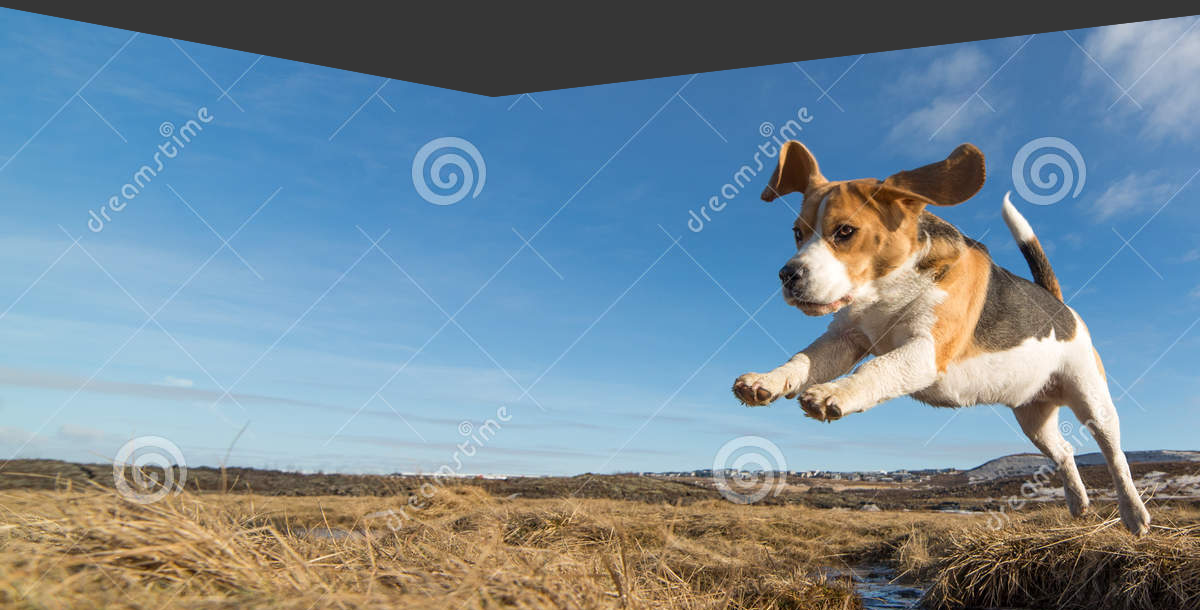
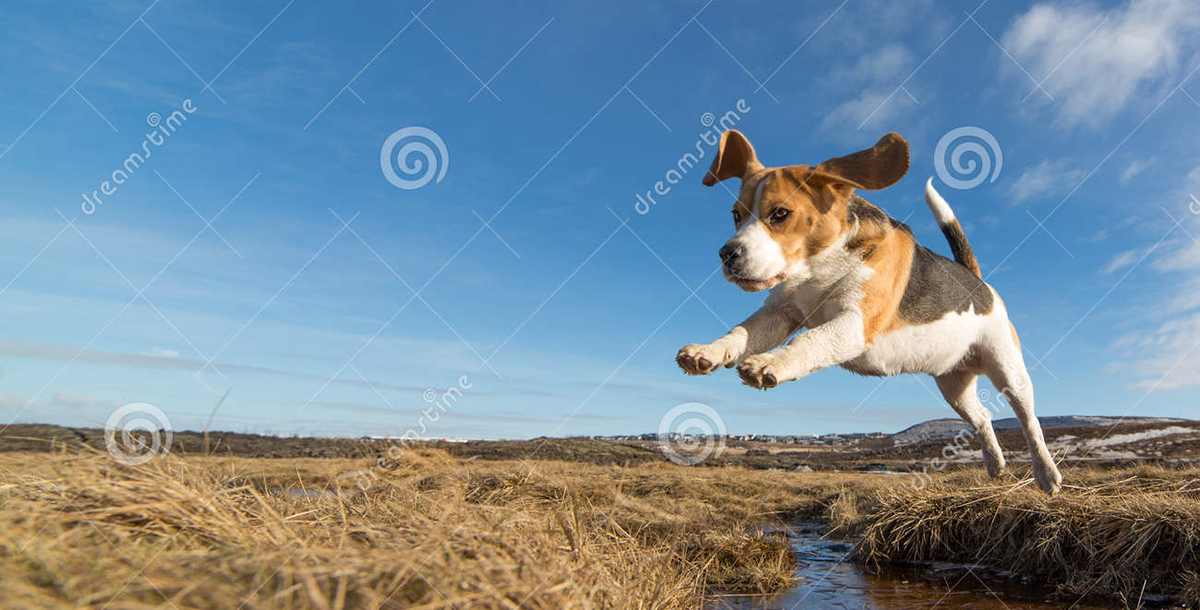
Top level navigation refactored

diff --git a/website/css/firm-beliefs.css b/website/css/firm-beliefs.css
@@ -20,9 +20,7 @@ body {
   width: 100%;
   max-width: 1200px;
   margin: 0 auto;
-  background-color: #FFFFFF;
-  overflow: hidden;
-  height: 3000px; }
+  overflow: hidden; }
 
 p {
   padding: 0 0 12px 0;
@@ -35,7 +33,10 @@ p {
 
 .header {
   background-color: #363636;
-  color: #9e9e95; }
+  color: #9e9e95;
+  content: "";
+  clear: both;
+  display: block; }
   .header .container {
     position: relative; }
 
@@ -102,10 +103,10 @@ h1 {
     .main-nav-container {
       right: -310px; } }
   .main-nav-container.animated {
-    -webkit-transition: all 0.25s;
-    -moz-transition: all 0.25s;
-    -o-transition: all 0.25s;
-    transition: all 0.25s; }
+    -webkit-transition: all 0.5s;
+    -moz-transition: all 0.5s;
+    -o-transition: all 0.5s;
+    transition: all 0.5s; }
   .main-nav-container.open {
     right: -15px; }
     @media (max-width: 1200px) {
@@ -155,26 +156,35 @@ h1 {
       z-index: 2; }
   .hero img {
     width: 100%; }
+  .hero .hero-angle {
+    position: absolute;
+    top: 0;
+    left: 0;
+    width: 100%;
+    height: 93px;
+    background: url("../images/hero-angle.png") top center no-repeat;
+    z-index: 3; }
 
 .top-level-nav {
-  padding: 30px 0 60px 0;
-  background: url("../images/bg-top-level-nav.png") bottom left no-repeat #F48220;
-  text-align: center;
-  float: left; }
+  padding: 0 0 83px 0;
+  background: url("../images/bg-top-level-nav.png") bottom center no-repeat;
+  text-align: center; }
   .top-level-nav .more-link {
     display: block; }
   .top-level-nav ul {
-    float: left; }
+    background-color: #F48220;
+    padding: 30px 0 10px 0; }
   .top-level-nav li {
     position: relative;
-    float: left;
-    width: 33.3333337%;
+    display: inline-block;
+    width: 33%;
     padding: 30px;
     color: #363636;
     -webkit-transition: all 0.5s;
     -moz-transition: all 0.5s;
     -o-transition: all 0.5s;
-    transition: all 0.5s; }
+    transition: all 0.5s;
+    vertical-align: top; }
     .top-level-nav li .pointer {
       width: 0;
       height: 0;
@@ -224,3 +234,8 @@ h1 {
     -o-transition: all 0.5s;
     transition: all 0.5s;
     display: inline-block; }
+
+.the-team {
+  background-color: #ebebeb;
+  height: 400px;
+  margin-top: -85px; }

diff --git a/source/scss/firm-beliefs.scss b/source/scss/firm-beliefs.scss
@@ -6,6 +6,7 @@ $width-lg: 1200px;
 $clr-primary-dark:      #363636;
 $clr-primary-orange:    #F48220;
 $clr-primary-grey:      #9e9e95;
+$clr-primary-light:     #ebebeb;
 
 @import "mixins";
 @import "fonts";
@@ -29,9 +30,7 @@ body {
     width: 100%;
     max-width: 1200px;
     margin: 0 auto;
-    background-color: #FFFFFF;
     overflow: hidden;
-    height: 3000px;
 }
 
 p {
@@ -49,6 +48,7 @@ p {
 .header {
     background-color: $clr-primary-dark;
     color: $clr-primary-grey;
+    @include clearfix();
 
     .container {
         position: relative;
@@ -139,7 +139,7 @@ h1 {
     }
 
     &.animated {
-        @include transitions(0.25s);
+        @include transitions(0.5s);
     }
 
     &.open {
@@ -210,13 +210,22 @@ h1 {
     img {
         width: 100%;
     }
+
+    .hero-angle {
+        position: absolute;
+        top: 0;
+        left: 0;
+        width: 100%;
+        height: 93px;
+        background: url("../images/hero-angle.png") top center no-repeat;
+        z-index: 3;
+    }
 }
 
 .top-level-nav {
-    padding: 30px 0 60px 0;
-    background: url("../images/bg-top-level-nav.png") bottom left no-repeat $clr-primary-orange;
+    padding: 0 0 83px 0;
+    background: url("../images/bg-top-level-nav.png") bottom center no-repeat;
     text-align: center;
-    float: left;
 
     .more-link {
         display: block;
@@ -224,16 +233,18 @@ h1 {
 
     ul {
         @extend %cleanUl;
-        float: left;
+        background-color: $clr-primary-orange;
+        padding: 30px 0 10px 0;
     }
 
     li {
         position: relative;
-        float: left;
-        width: 33.3333337%;
+        display: inline-block;
+        width: 33%;
         padding: 30px;
         color: $clr-primary-dark;
         @include transitions(0.5s);
+        vertical-align: top;
 
         .pointer {
             width: 0;
@@ -298,6 +309,13 @@ h1 {
         @include transitions(0.5s);
         display: inline-block;
     }
+
+}
+
+.the-team {
+    background-color: $clr-primary-light;
+    height: 400px;
+    margin-top: -85px;
 }
 
 

diff --git a/website/index.html b/website/index.html
@@ -65,6 +65,7 @@
                 <img src="images/hero-home-3.png" alt="" />
             </div>
             <img src="images/hero-canvas.gif" alt="" />
+            <div class="hero-angle"></div>
             <div class="top-level-nav">
                 <ul>
                     <li class="active">
@@ -90,6 +91,9 @@
         </div>
     </div>
     <div class="body">
+        <div class="the-team">
+
+        </div>
 
     </div>
     <div class="foot">

diff --git a/website/js/firm-beliefs.js b/website/js/firm-beliefs.js
@@ -36,7 +36,8 @@
         init: function (){
             var self = this;
 
-            this.$mainNavTrigger.on('click', function(){
+            this.$mainNavTrigger.on('click', function(evt){
+                evt.preventDefault();
                 self.mainNavShow();
             });
 
